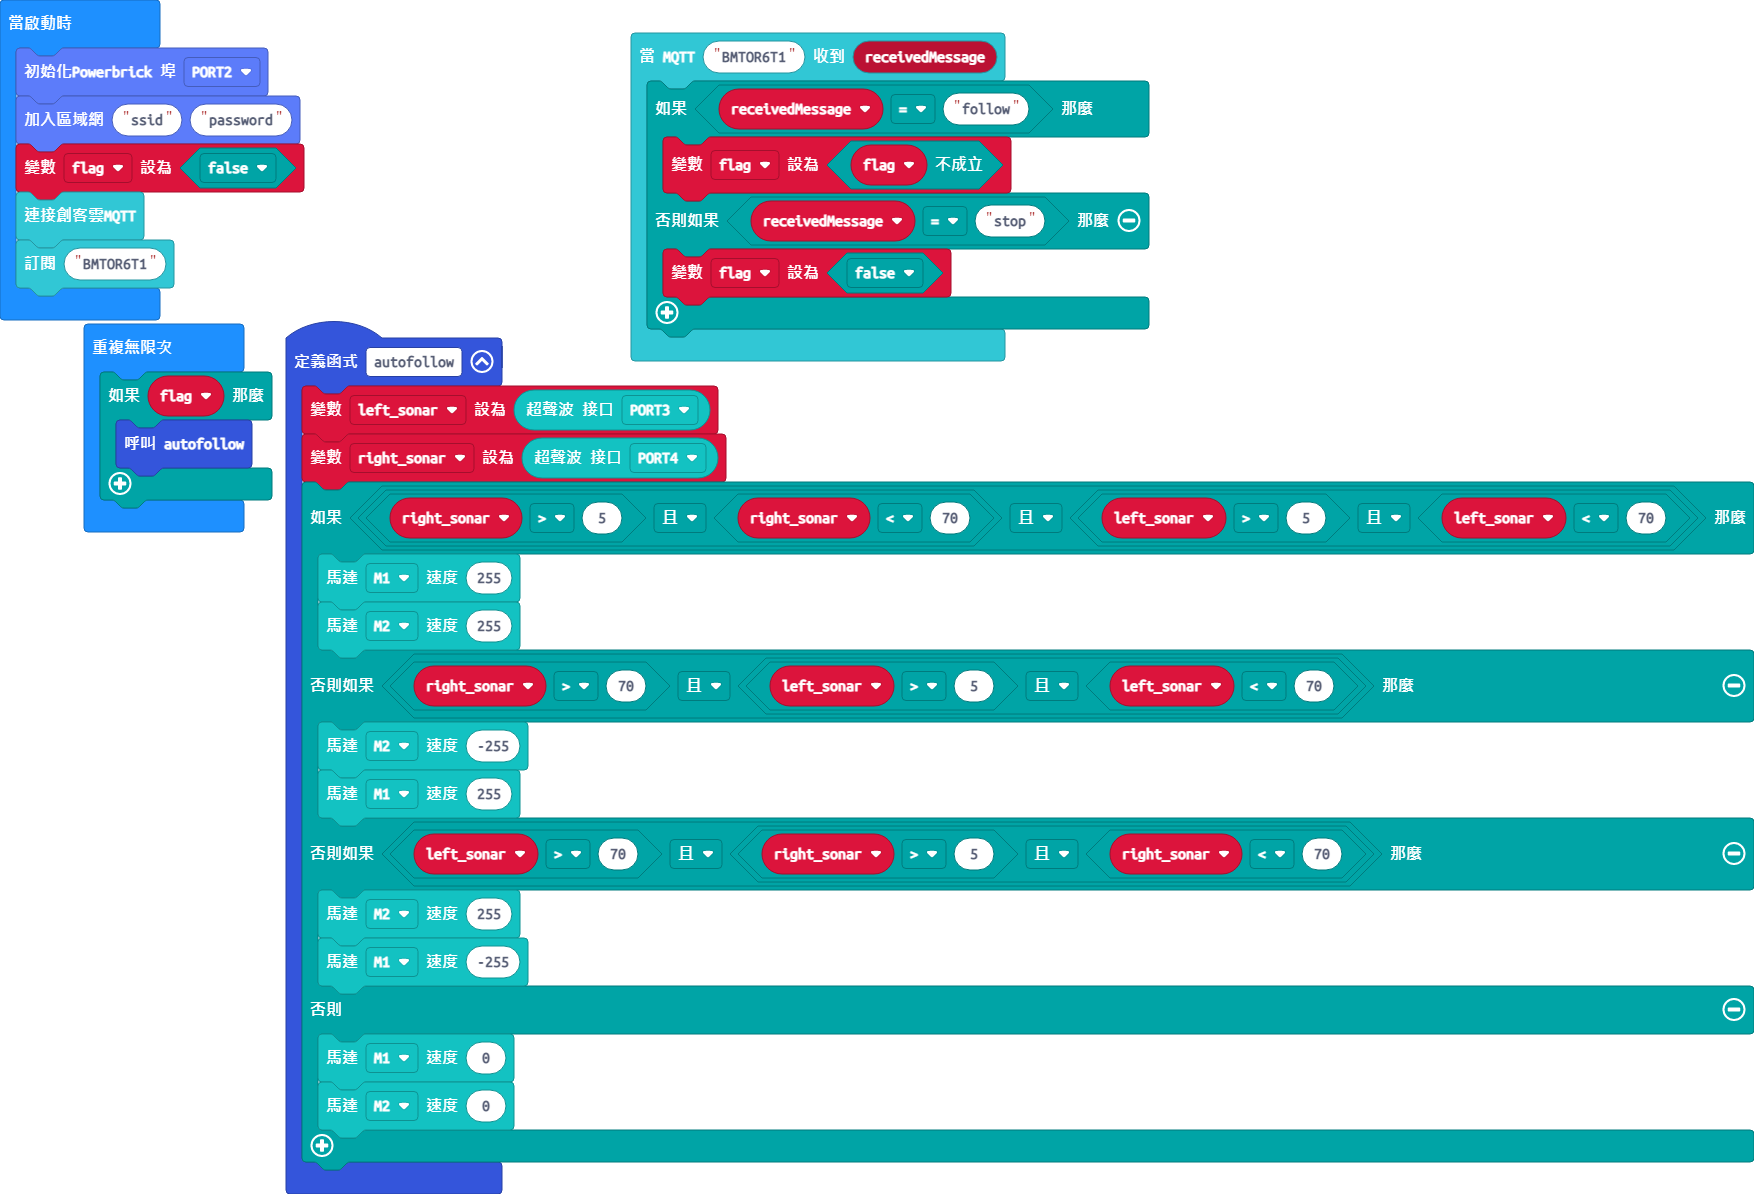
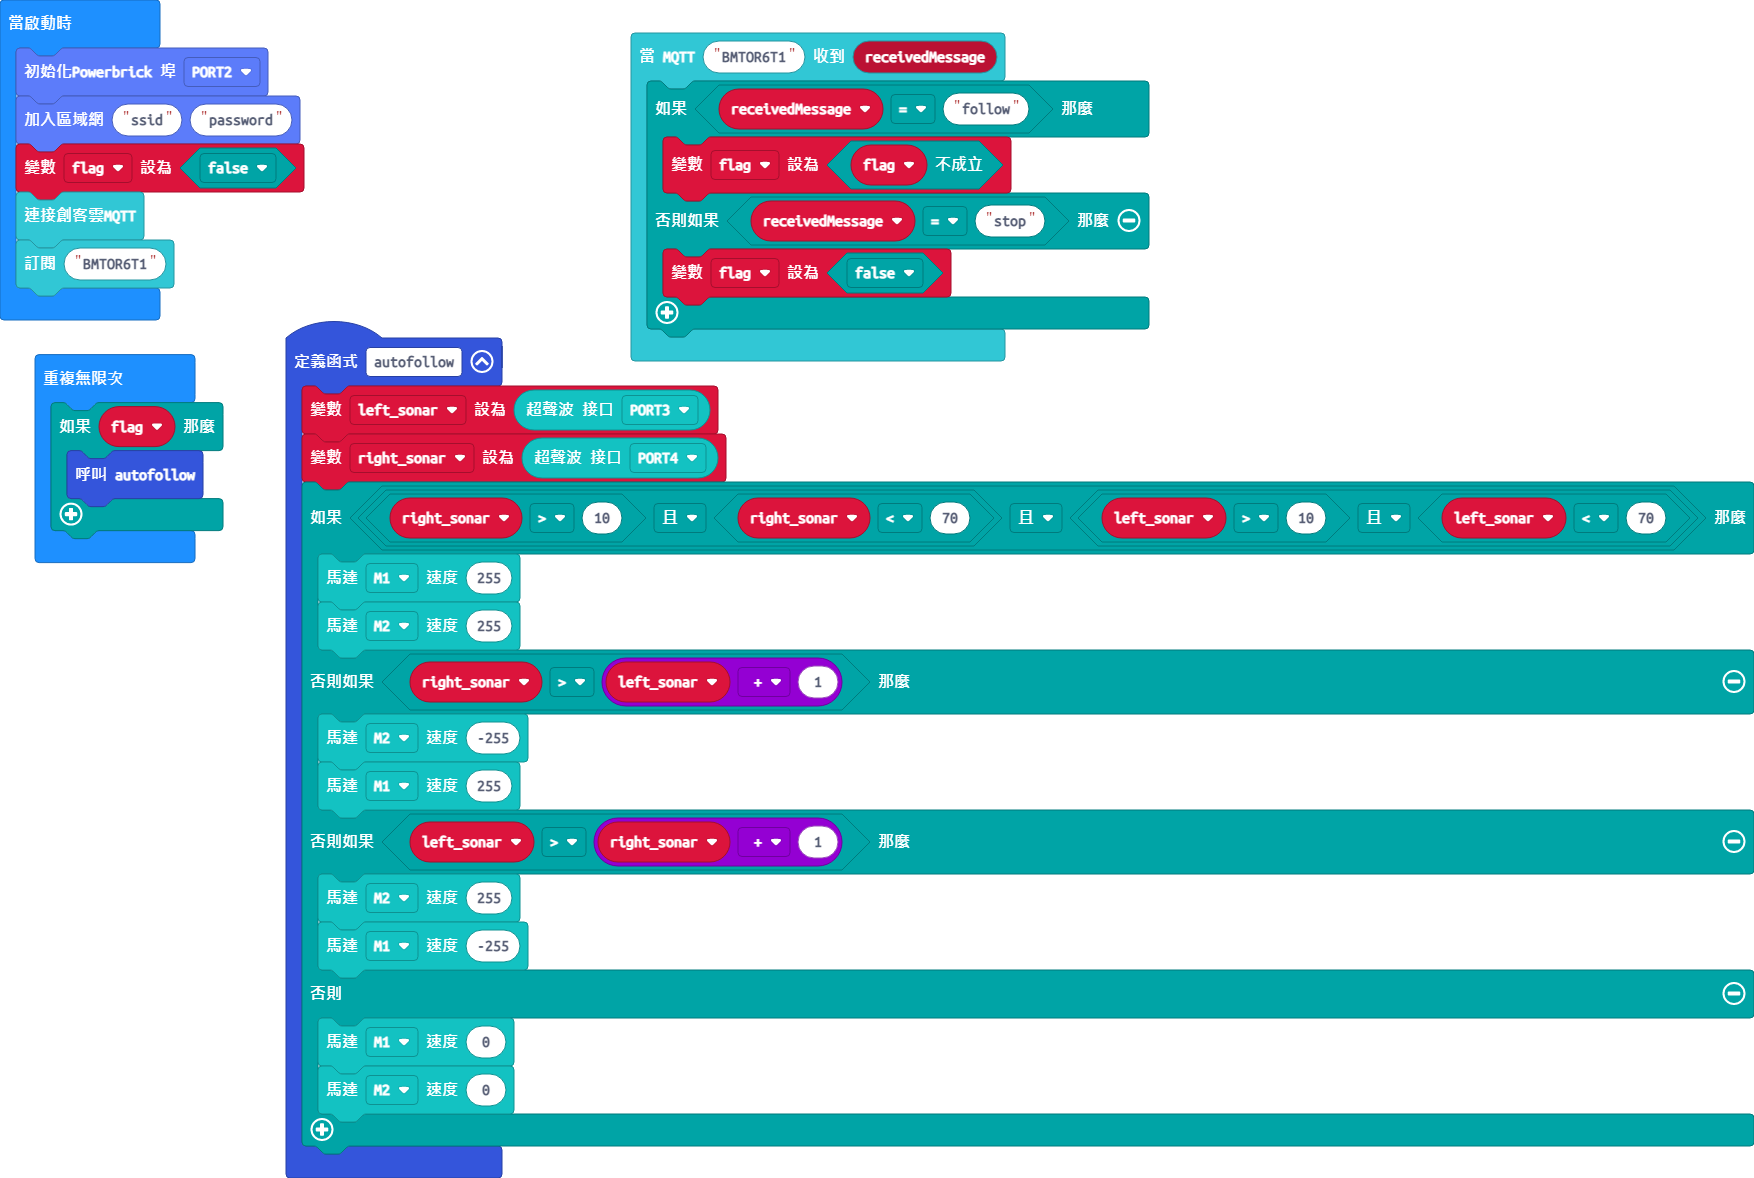
更新 main.blocks, main.ts

diff --git a/main.ts b/main.ts
@@ -8,13 +8,13 @@ MakerCloud_KOI.registerTopicMessageHandler("BMTOR6T1", function (receivedMessage
 function autofollow () {
     left_sonar = powerbrick.Ultrasonic(powerbrick.Ports.PORT3)
     right_sonar = powerbrick.Ultrasonic(powerbrick.Ports.PORT4)
-    if (right_sonar > 5 && right_sonar < 70 && (left_sonar > 5 && left_sonar < 70)) {
+    if (right_sonar > 10 && right_sonar < 70 && (left_sonar > 10 && left_sonar < 70)) {
         powerbrick.MotorRun(powerbrick.Motors.M1, 255)
         powerbrick.MotorRun(powerbrick.Motors.M2, 255)
-    } else if (right_sonar > 70 && (left_sonar > 5 && left_sonar < 70)) {
+    } else if (right_sonar > left_sonar + 1) {
         powerbrick.MotorRun(powerbrick.Motors.M2, -255)
         powerbrick.MotorRun(powerbrick.Motors.M1, 255)
-    } else if (left_sonar > 70 && (right_sonar > 5 && right_sonar < 70)) {
+    } else if (left_sonar > right_sonar + 1) {
         powerbrick.MotorRun(powerbrick.Motors.M2, 255)
         powerbrick.MotorRun(powerbrick.Motors.M1, -255)
     } else {
